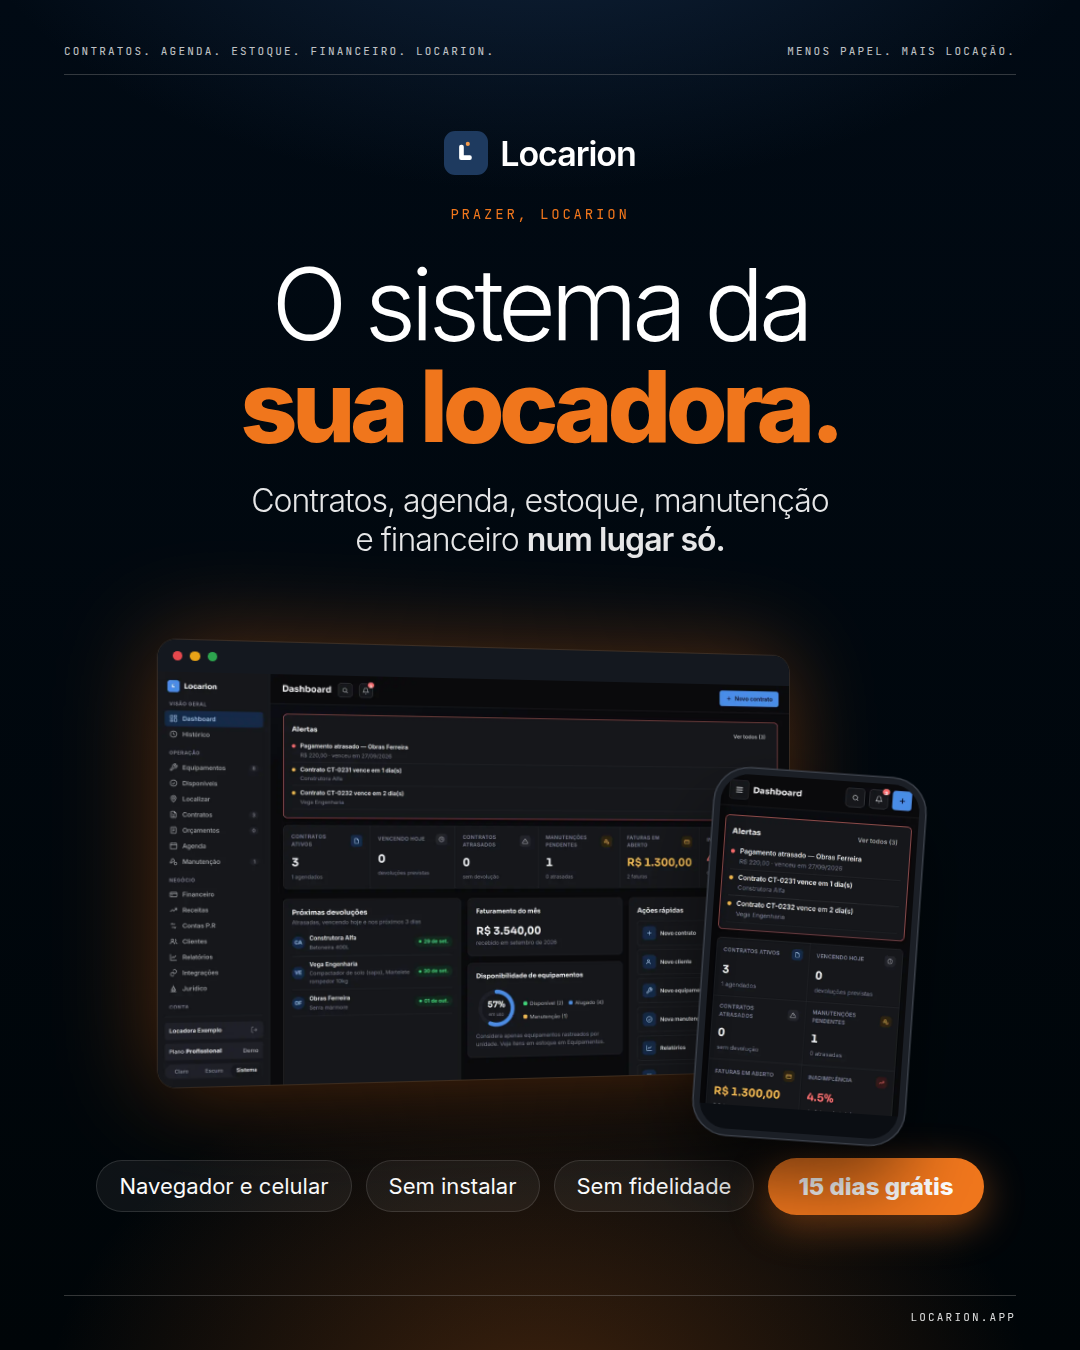
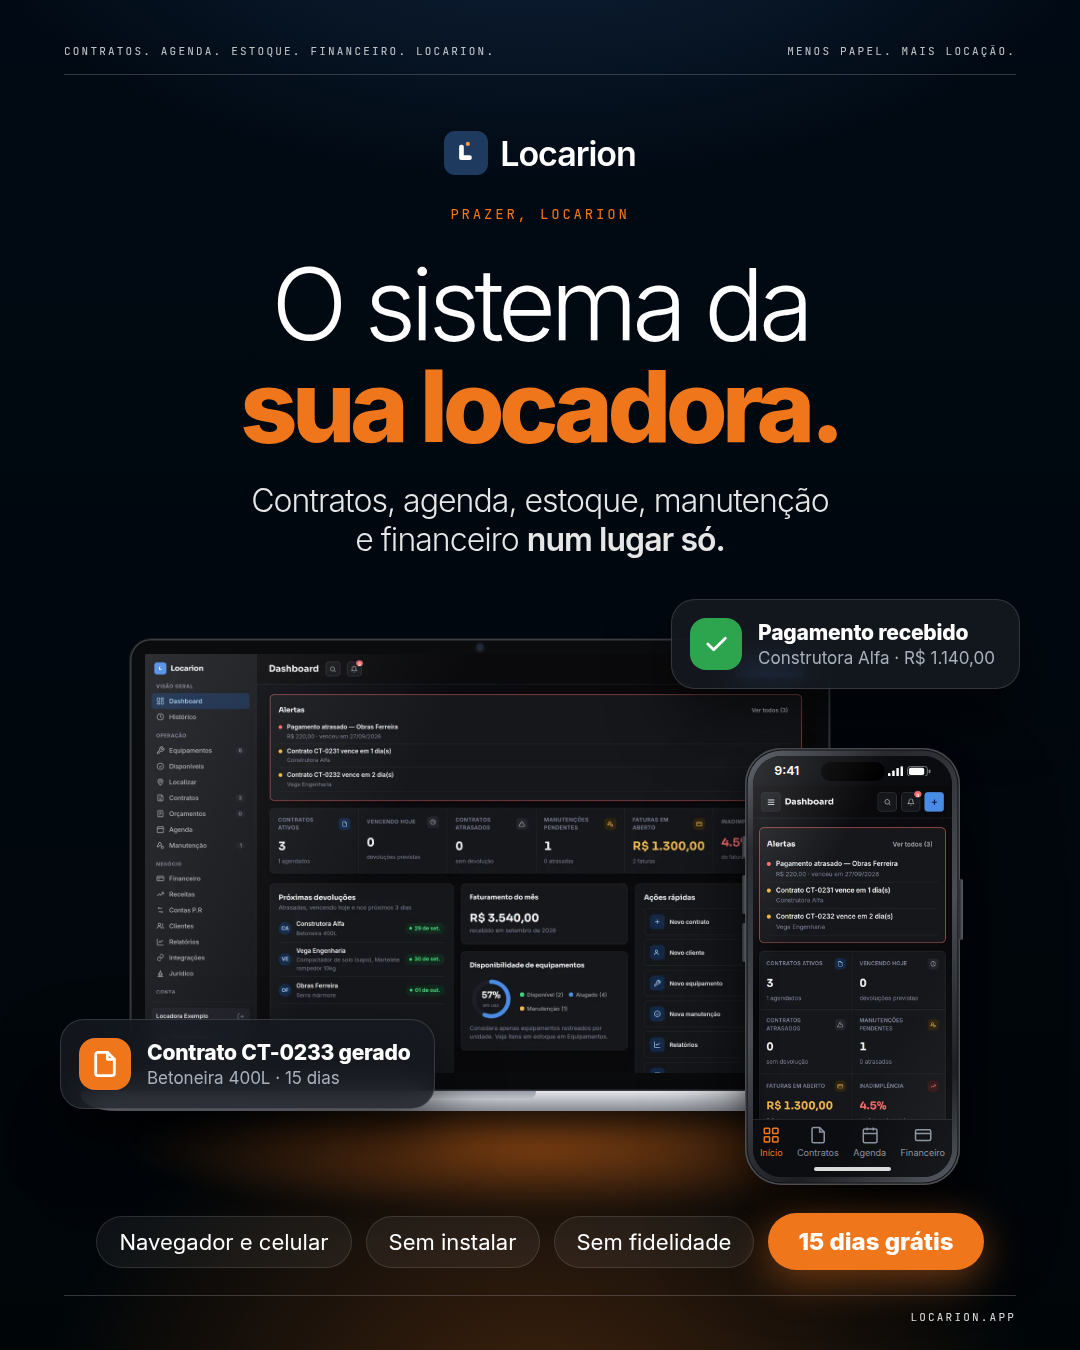
Upgrade device mockups in Locarion posts
Realistic laptop (bezel, camera, aluminium base) and iPhone (titanium
frame, Dynamic Island, status and tab bar, glass reflection), plus
floating notification toasts on the introduction post.

Claude-Session: https://claude.ai/code/session_017TwVGze7yevdfZZz7CFSM4

Changed region(s): [[0.0611, 0.4356, 0.9167, 0.9644]]

diff --git a/marketing/gerar-posts.js b/marketing/gerar-posts.js
@@ -106,6 +106,40 @@ const tiles = () => `<div style="position:absolute;left:0;right:0;bottom:0;heigh
 const blob = (c1, c2) => `<svg viewBox="0 0 1080 620" width="1080" height="620" style="position:absolute;left:0;bottom:0"><defs><linearGradient id="bl" x1="0" y1="0" x2="1" y2="1"><stop offset="0" stop-color="${c1}"/><stop offset="1" stop-color="${c2}"/></linearGradient></defs><path d="M0 330 C140 190 330 210 470 300 C640 410 760 250 920 230 C1010 220 1060 250 1080 270 L1080 620 L0 620Z" fill="url(#bl)"/><path d="M0 470 C180 400 330 430 430 500 C520 560 600 560 700 520 L700 620 L0 620Z" fill="#FFB070" opacity=".5"/></svg>`;
 
 
+// ---------- mockups de aparelhos ----------
+const STATUS = (dark, w) => `<div style="height:${w * .14}px;display:flex;justify-content:space-between;align-items:center;padding:0 ${w * .1}px;font-size:${w * .058}px;font-weight:600;background:${dark ? '#0b0d10' : '#F6F7F9'};color:${dark ? '#fff' : '#0F1013'}">
+  <span>9:41</span><span style="display:flex;gap:${w * .02}px;align-items:center"><svg width="${w * .07}" height="${w * .05}" viewBox="0 0 18 12" fill="currentColor"><rect x="0" y="8" width="3" height="4" rx="1"/><rect x="5" y="5" width="3" height="7" rx="1"/><rect x="10" y="2" width="3" height="10" rx="1"/><rect x="15" y="0" width="3" height="12" rx="1"/></svg><svg width="${w * .11}" height="${w * .05}" viewBox="0 0 26 12" fill="none"><rect x=".5" y=".5" width="22" height="11" rx="3" stroke="currentColor" opacity=".5"/><rect x="2" y="2" width="17" height="8" rx="2" fill="currentColor"/><rect x="24" y="4" width="2" height="4" rx="1" fill="currentColor" opacity=".5"/></svg></span></div>`;
+function IPHONE(img, w, { dark = true, rot = 0, style = '' } = {}) {
+  const r = w * .17;
+  const btn = (side, top, hh) => `<i style="position:absolute;${side}:-${w * .014}px;top:${top}%;width:${w * .018}px;height:${hh}%;border-radius:3px;background:linear-gradient(90deg,#2a2d33,#5a5e66)"></i>`;
+  return `<div style="position:absolute;${style};width:${w}px;border-radius:${r}px;padding:${w * .036}px;transform:rotate(${rot}deg);
+    background:linear-gradient(145deg,#6b6f78 0%,#2a2c31 18%,#4a4d55 50%,#1d1f23 80%,#5b5f68 100%);box-shadow:inset 0 0 0 1.5px rgba(255,255,255,.25),inset 0 0 0 ${w * .012}px #121316,0 50px 90px rgba(0,0,0,.55),0 10px 25px rgba(0,0,0,.35)">
+    ${btn('left', 20, 5)}${btn('left', 29, 9)}${btn('left', 40, 9)}${btn('right', 30, 14)}
+    <div style="position:relative;width:100%;display:flex;flex-direction:column;border-radius:${r - w * .036}px;overflow:hidden;background:${dark ? '#0b0d10' : '#F6F7F9'}">
+      ${STATUS(dark, w)}
+      <img src="${A(img)}" style="width:100%;display:block">
+      <div style="flex:1;display:flex;flex-direction:column;justify-content:flex-end;background:${dark ? '#0b0d10' : '#fff'}">
+        ${dark ? `<div style="display:flex;justify-content:space-around;padding:${w * .03}px 0 ${w * .02}px;border-top:1px solid rgba(255,255,255,.1);font-size:${w * .042}px;color:#8A93A0">${[['Início', '<rect x="3" y="3" width="7" height="7" rx="1"/><rect x="14" y="3" width="7" height="7" rx="1"/><rect x="3" y="14" width="7" height="7" rx="1"/><rect x="14" y="14" width="7" height="7" rx="1"/>'], ['Contratos', '<path d="M14 2H6a2 2 0 0 0-2 2v16a2 2 0 0 0 2 2h12a2 2 0 0 0 2-2V8z"/><path d="M14 2v6h6"/>'], ['Agenda', '<rect x="3" y="4" width="18" height="18" rx="2"/><path d="M16 2v4M8 2v4M3 10h18"/>'], ['Financeiro', '<rect x="2" y="5" width="20" height="14" rx="2"/><path d="M2 10h20"/>']].map(([t, ic], k) => `<span style="display:flex;flex-direction:column;align-items:center;gap:${w * .012}px;${k ? '' : 'color:#F0761C'}"><svg width="${w * .085}" height="${w * .085}" viewBox="0 0 24 24" fill="none" stroke="currentColor" stroke-width="2">${ic}</svg>${t}</span>`).join('')}</div>` : ''}
+        <i style="display:block;width:${w * .36}px;height:${w * .016}px;border-radius:999px;background:${dark ? '#fff' : '#0F1013'};opacity:.85;margin:${w * .025}px auto ${w * .03}px"></i></div>
+      <div style="position:absolute;top:${w * .03}px;left:50%;transform:translateX(-50%);width:${w * .3}px;height:${w * .088}px;border-radius:999px;background:#000"></div>
+      <div style="position:absolute;inset:0;background:linear-gradient(120deg,rgba(255,255,255,.16) 0%,rgba(255,255,255,0) 32%,rgba(255,255,255,0) 70%,rgba(255,255,255,.05) 100%);pointer-events:none"></div>
+    </div></div>`;
+}
+function LAPTOP(img, w, { style = '' } = {}) {
+  const pad = w * .022;
+  return `<div style="position:absolute;${style};width:${w}px">
+    <div style="position:relative;background:#0b0c0e;border-radius:${w * .03}px ${w * .03}px ${w * .008}px ${w * .008}px;padding:${pad}px ${pad}px ${pad * 1.2}px;box-shadow:inset 0 0 0 1.5px #3a3d44,0 0 0 1px #1a1b1f">
+      <i style="position:absolute;top:${pad * .35}px;left:50%;width:${w * .009}px;height:${w * .009}px;margin-left:-${w * .0045}px;border-radius:50%;background:#1f2a3a;box-shadow:0 0 0 2px #15171b"></i>
+      <img src="${A(img)}" style="width:100%;display:block;border-radius:3px">
+      <div style="position:absolute;inset:${pad}px;background:linear-gradient(115deg,rgba(255,255,255,.10),rgba(255,255,255,0) 38%);pointer-events:none"></div></div>
+    <div style="position:relative;height:${w * .028}px;margin:0 -${w * .07}px;background:linear-gradient(180deg,#e4e6ea 0%,#b9bcc3 45%,#868a92 100%);border-radius:${w * .004}px ${w * .004}px ${w * .05}px ${w * .05}px / ${w * .004}px ${w * .004}px ${w * .022}px ${w * .022}px;box-shadow:0 40px 70px rgba(0,0,0,.55),0 12px 20px rgba(0,0,0,.3)">
+      <i style="position:absolute;left:50%;top:0;width:${w * .16}px;height:${w * .012}px;margin-left:-${w * .08}px;border-radius:0 0 ${w * .012}px ${w * .012}px;background:linear-gradient(180deg,#9a9ea6,#c3c6cc)"></i></div></div>`;
+}
+const TOAST = (color, icon, title, sub, style) => `<div style="position:absolute;${style};display:flex;gap:16px;align-items:center;padding:18px 24px 18px 18px;border-radius:24px;background:rgba(22,26,33,.82);border:1px solid rgba(255,255,255,.14);backdrop-filter:blur(14px);box-shadow:0 30px 60px rgba(0,0,0,.5);color:#fff;z-index:5">
+  <div style="width:52px;height:52px;border-radius:16px;background:${color};display:flex;align-items:center;justify-content:center;flex:none"><svg width="28" height="28" viewBox="0 0 24 24" fill="none" stroke="#fff" stroke-width="2.4" stroke-linecap="round" stroke-linejoin="round">${icon}</svg></div>
+  <div><div style="font-size:21px;font-weight:700;letter-spacing:-.01em">${title}</div><div style="font-size:17px;color:#A8B0BC;margin-top:3px">${sub}</div></div></div>`;
+const IC_CHECK = '<path d="M5 12l5 5L20 7"/>', IC_DOC = '<path d="M14 2H6a2 2 0 0 0-2 2v16a2 2 0 0 0 2 2h12a2 2 0 0 0 2-2V8z"/><path d="M14 2v6h6"/>', IC_TRUCK = '<path d="M1 3h15v13H1zM16 8h4l3 3v5h-7z"/><circle cx="5.5" cy="18.5" r="2.5"/><circle cx="18.5" cy="18.5" r="2.5"/>';
+
 // ---------- visuais por tema ----------
 const ck = (c = '#2DA44E') => `<svg width="30" height="30" viewBox="0 0 24 24" fill="none" stroke="${c}" stroke-width="3" stroke-linecap="round" stroke-linejoin="round"><path d="M5 12l5 5L20 7"/></svg>`;
 const V = {
@@ -114,21 +148,23 @@ const V = {
   gem: (o, H) => `<div class="obj" style="height:620px;display:flex;justify-content:center;align-items:flex-end;padding-bottom:95px">${gem(o.size || 520)}</div>`,
   phone: () => `<div class="obj" style="height:760px">${blob('#FF9A4A', '#D9620F')}
       <div class="icon" style="width:190px;height:190px;left:70px;bottom:250px;transform:rotate(-14deg)">${MARK(130)}</div>
-      <div class="phone" style="width:460px;height:760px;left:50%;margin-left:-190px;bottom:-190px;transform:rotate(7deg)"><img src="${A('celular-escuro.webp')}"></div></div>`,
+      ${IPHONE('celular-escuro.webp', 380, { rot: 7, style: 'left:50%;margin-left:-170px;bottom:-330px' })}
+      ${TOAST('#E5484D', '<path d="M6 8a6 6 0 1 1 12 0c0 7 3 9 3 9H3s3-2 3-9"/>', 'Devolução amanhã', 'Vega Engenharia · Martelete', 'right:40px;bottom:330px')}</div>`,
   shot: (o) => `<div class="obj" style="height:760px">${blob('#FF9A4A', '#D9620F')}</div>
       <img src="${A(o.img)}" style="position:relative;z-index:2;width:${o.w}px;border-radius:24px;box-shadow:0 30px 80px rgba(0,0,0,.25),0 0 0 1px rgba(127,127,127,.3)">`,
 
   // apresentação: painel + celular
-  hero: () => `<div style="position:relative;width:960px;height:640px">
-    <div style="position:absolute;left:0;top:30px;width:820px;border-radius:22px;overflow:hidden;box-shadow:0 0 0 1px rgba(255,255,255,.12),0 0 120px rgba(240,118,28,.35),0 50px 100px rgba(0,0,0,.6);transform:perspective(1800px) rotateY(10deg)">
-      <div style="display:flex;gap:9px;padding:14px 18px;background:#14181f"><i style="width:12px;height:12px;border-radius:50%;background:#E5484D"></i><i style="width:12px;height:12px;border-radius:50%;background:#E8A317"></i><i style="width:12px;height:12px;border-radius:50%;background:#2DA44E"></i></div>
-      <img src="${A('painel-escuro.webp')}" style="width:100%;display:block"></div>
-    <div class="phone" style="right:0;bottom:-20px;width:270px;height:470px;border-radius:44px;border-width:8px;transform:rotate(4deg)"><img src="${A('celular-escuro.webp')}"></div></div>`,
+  hero: () => `<div style="position:relative;width:960px;height:580px">
+    <div style="position:absolute;left:60px;right:60px;bottom:-30px;height:120px;background:radial-gradient(closest-side,rgba(240,118,28,.55),transparent);filter:blur(10px)"></div>
+    ${LAPTOP('painel-escuro.webp', 700, { style: 'left:70px;top:40px' })}
+    ${IPHONE('celular-escuro.webp', 215, { style: 'right:60px;bottom:-6px' })}
+    ${TOAST('#2DA44E', IC_CHECK, 'Pagamento recebido', 'Construtora Alfa · R$ 1.140,00', 'right:0;top:0')}
+    ${TOAST('#F0761C', IC_DOC, 'Contrato CT-0233 gerado', 'Betoneira 400L · 15 dias', 'left:0;bottom:70px')}</div>`,
 
   // post único de apresentação
   intro: () => `<div style="display:flex;flex-direction:column;align-items:center;gap:34px">
-    <div style="zoom:.78">${V.hero()}</div>
-    <div style="display:flex;gap:14px;align-items:center">
+    ${V.hero()}
+    <div style="display:flex;gap:14px;align-items:center;position:relative;z-index:6">
       ${['Navegador e celular', 'Sem instalar', 'Sem fidelidade'].map((t) => `<span style="font-size:22px;padding:12px 22px;border-radius:999px;border:1px solid var(--line);background:var(--card)">${t}</span>`).join('')}
       <span style="font-size:24px;font-weight:700;color:#fff;background:#F0761C;padding:14px 30px;border-radius:999px;box-shadow:0 10px 40px rgba(240,118,28,.45)">15 dias grátis</span></div></div>`,
 
@@ -281,12 +317,10 @@ const V = {
   quote: () => `<div style="font-size:620px;font-weight:800;line-height:.7;color:var(--orange);letter-spacing:-.05em;margin-top:120px;text-shadow:0 30px 120px rgba(240,118,28,.5)">?</div>`,
 
   // navegador
-  browser: () => `<div style="position:relative;width:920px;height:580px">
-    <div class="card" style="position:absolute;left:0;top:0;width:760px;padding:0;overflow:hidden">
-      <div style="display:flex;align-items:center;gap:10px;padding:18px 22px;border-bottom:1px solid var(--line)"><i style="width:14px;height:14px;border-radius:50%;background:#E5484D"></i><i style="width:14px;height:14px;border-radius:50%;background:#E8A317"></i><i style="width:14px;height:14px;border-radius:50%;background:#2DA44E"></i>
-        <div style="margin-left:18px;flex:1;background:rgba(127,127,127,.12);border-radius:10px;padding:8px 16px;font-size:20px;font-family:'JetBrains Mono'">🔒 locarion.app</div></div>
-      <img src="${A('painel-claro.webp')}" style="width:100%;display:block"></div>
-    <div class="phone" style="position:absolute;right:0;bottom:0;width:230px;height:420px;border-radius:40px;border-width:7px"><img src="${A('celular-escuro.webp')}"></div></div>`,
+  browser: () => `<div style="position:relative;width:940px;height:560px">
+    <div style="position:absolute;left:60px;right:60px;bottom:-20px;height:90px;background:radial-gradient(closest-side,rgba(15,16,19,.25),transparent);filter:blur(8px)"></div>
+    ${LAPTOP('painel-claro.webp', 700, { style: 'left:40px;top:10px' })}
+    ${IPHONE('celular-claro.webp', 210, { dark: false, style: 'right:30px;bottom:-10px' })}</div>`,
 
   // dados isolados
   shield: () => `<div style="display:flex;align-items:center;gap:34px">
